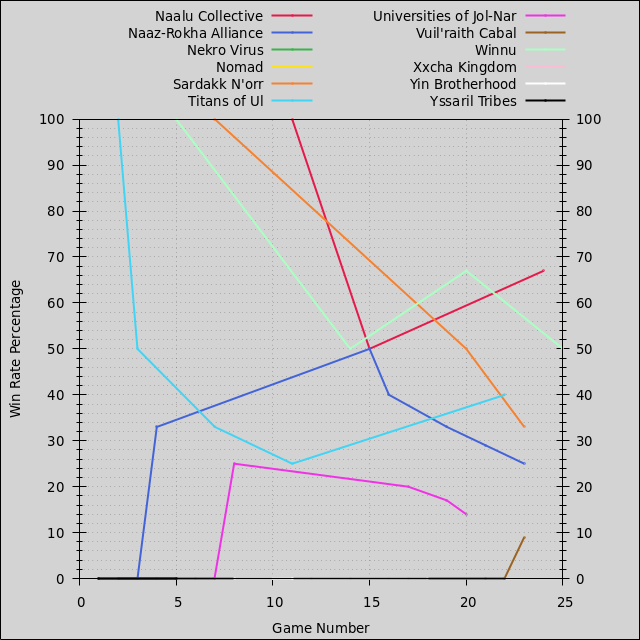
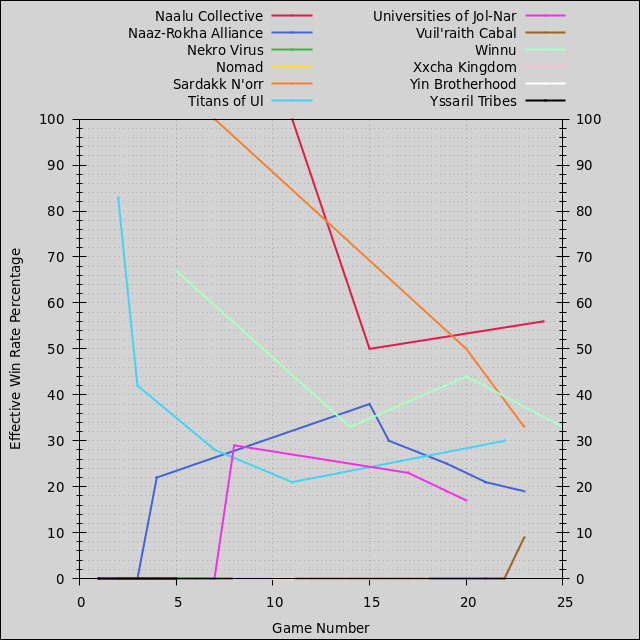
Update leaderboard.

diff --git a/leaderboard/README.md b/leaderboard/README.md
@@ -12,7 +12,7 @@
 - [Games](#games)
 - [License](#license)
 
-Last updated 2022-01-09 08:51 UTC.
+Last updated 2022-01-18 03:35 UTC.
 
 # Players
 
@@ -25,21 +25,23 @@ Last updated 2022-01-09 08:51 UTC.
 
 ## Players: Summary
 
-| **Player** | **Games** | **Current Rating** | **Avg Rating** | **Avg Points** | **1st Place** | **2nd Place** | **3rd Place** |
-| :--- | :---: | :---: | :---: | :---: | :---: | :---: | :---: |
-| PA | 16 | 1237 | 1225 | 9.25 | 56% (9) | 25% (4) | 6% (1) |
-| Rob | 5 | 1180 | 1063 | 9.20 | 40% (2) | 20% (1) | 20% (1) |
-| AlexC | 25 | 1180 | 1084 | 7.96 | 16% (4) | 36% (9) | 32% (8) |
-| AlexP | 7 | 1153 | 981 | 6.71 | 14% (1) | 14% (1) | 14% (1) |
-| Ronan | 13 | 1114 | 994 | 7.62 | 23% (3) | 8% (1) | 15% (2) |
-| Scott | 2 | 1095 | 1050 | 9.50 | 0% (0) | 100% (2) | 0% (0) |
-| Jess | 1 | 1044 | 1044 | 4.00 | 0% (0) | 0% (0) | 100% (1) |
-| Wendi | 21 | 997 | 1037 | 7.48 | 19% (4) | 14% (3) | 19% (4) |
-| Jay | 1 | 991 | 991 | 4.00 | 0% (0) | 0% (0) | 0% (0) |
-| Nick | 18 | 924 | 885 | 6.22 | 6% (1) | 17% (3) | 17% (3) |
-| Andy | 9 | 894 | 1035 | 8.11 | 11% (1) | 11% (1) | 33% (3) |
-| Rachel | 3 | 886 | 915 | 5.33 | 0% (0) | 0% (0) | 33% (1) |
-| Eftychi | 1 | 868 | 868 | 0.00 | 0% (0) | 0% (0) | 0% (0) |
+| **Player** | **Games** | **Curr. Rating** | **Avg Rating** | **Avg Pts.** | **Win Rate** | **1st Place** | **2nd Place** | **3rd Place** |
+| :--- | :---: | :---: | :---: | :---: | :---: | :---: | :---: | :---: |
+| PA | 16 | 1237 | 1225 | 9.25 | 48% | 56% (9) | 25% (4) | 6% (1) |
+| Rob | 5 | 1180 | 1063 | 9.20 | 30% | 40% (2) | 20% (1) | 20% (1) |
+| AlexC | 25 | 1180 | 1084 | 7.96 | 12% | 16% (4) | 36% (9) | 32% (8) |
+| AlexP | 7 | 1153 | 981 | 6.71 | 14% | 14% (1) | 14% (1) | 14% (1) |
+| Ronan | 13 | 1114 | 994 | 7.62 | 19% | 23% (3) | 8% (1) | 15% (2) |
+| Scott | 2 | 1095 | 1050 | 9.50 | 0% | 0% (0) | 100% (2) | 0% (0) |
+| Jess | 1 | 1044 | 1044 | 4.00 | 0% | 0% (0) | 0% (0) | 100% (1) |
+| Wendi | 21 | 997 | 1037 | 7.48 | 13% | 19% (4) | 14% (3) | 19% (4) |
+| Jay | 1 | 991 | 991 | 4.00 | 0% | 0% (0) | 0% (0) | 0% (0) |
+| Nick | 18 | 924 | 885 | 6.22 | 4% | 6% (1) | 17% (3) | 17% (3) |
+| Andy | 9 | 894 | 1035 | 8.11 | 13% | 11% (1) | 11% (1) | 33% (3) |
+| Rachel | 3 | 886 | 915 | 5.33 | 0% | 0% (0) | 0% (0) | 33% (1) |
+| Eftychi | 1 | 868 | 868 | 0.00 | 0% | 0% (0) | 0% (0) | 0% (0) |
+
+Average victory points per game are adjusted relative to 10-point games, and effective win rates are calculated relative to 6-player games.
 
 [(Back to Players)](#players)
 
@@ -53,13 +55,15 @@ Last updated 2022-01-09 08:51 UTC.
 
 ![Players Points Plot](players/points.png)
 
-Victory points are adjusted relative to a 10-point game.
+Average victory points per game are adjusted relative to 10-point games.
 
 [(Back to Players)](#players)
 
 ## Players: Win Rates
 
 ![Players Win Rates Plot](players/winrates.png)
+
+Effective win rates are calculated relative to 6-player games.
 
 [(Back to Players)](#players)
 
@@ -74,32 +78,34 @@ Victory points are adjusted relative to a 10-point game.
 
 ## Factions: Summary
 
-| **Faction** | **Games** | **Current Rating** | **Avg Rating** | **Avg Points** | **1st Place** | **2nd Place** | **3rd Place** |
-| :--- | :---: | :---: | :---: | :---: | :---: | :---: | :---: |
-| Clan of Saar | 6 | 1213 | 1174 | 9.17 | 50% (3) | 17% (1) | 33% (2) |
-| Universities of Jol-Nar | 7 | 1162 | 1027 | 7.14 | 14% (1) | 29% (2) | 14% (1) |
-| Naalu Collective | 3 | 1140 | 1108 | 9.00 | 67% (2) | 0% (0) | 0% (0) |
-| Vuil'raith Cabal | 11 | 1125 | 922 | 7.64 | 9% (1) | 27% (3) | 9% (1) |
-| Argent Flight | 10 | 1122 | 1109 | 8.30 | 40% (4) | 20% (2) | 10% (1) |
-| Titans of Ul | 5 | 1121 | 1075 | 9.20 | 40% (2) | 20% (1) | 20% (1) |
-| Winnu | 4 | 1103 | 1085 | 7.25 | 50% (2) | 0% (0) | 50% (2) |
-| Mentak Coalition | 2 | 1092 | 1033 | 8.00 | 0% (0) | 50% (1) | 50% (1) |
-| Sardakk N'orr | 3 | 1081 | 1082 | 6.00 | 33% (1) | 0% (0) | 33% (1) |
-| Ghosts of Creuss | 1 | 1071 | 1071 | 9.00 | 0% (0) | 100% (1) | 0% (0) |
-| Arborec | 3 | 1062 | 1009 | 7.67 | 0% (0) | 67% (2) | 0% (0) |
-| L1z1x Mindnet | 5 | 1043 | 1064 | 7.80 | 20% (1) | 40% (2) | 20% (1) |
-| Federation of Sol | 7 | 1035 | 1028 | 8.14 | 14% (1) | 0% (0) | 86% (6) |
-| Yssaril Tribes | 2 | 1029 | 1009 | 7.50 | 0% (0) | 50% (1) | 0% (0) |
-| Xxcha Kingdom | 3 | 1005 | 991 | 7.67 | 0% (0) | 67% (2) | 0% (0) |
-| Barony of Letnev | 5 | 953 | 967 | 7.60 | 20% (1) | 0% (0) | 20% (1) |
-| Embers of Muaat | 2 | 945 | 899 | 7.50 | 0% (0) | 0% (0) | 50% (1) |
-| Mahact Gene-Sorcerers | 5 | 933 | 958 | 6.20 | 0% (0) | 40% (2) | 20% (1) |
-| Naaz-Rokha Alliance | 8 | 932 | 1050 | 7.50 | 25% (2) | 12% (1) | 25% (2) |
-| Emirates of Hacan | 3 | 930 | 1051 | 7.33 | 33% (1) | 33% (1) | 0% (0) |
-| Yin Brotherhood | 2 | 923 | 916 | 6.00 | 0% (0) | 0% (0) | 0% (0) |
-| Empyrean | 5 | 889 | 1019 | 7.20 | 20% (1) | 0% (0) | 0% (0) |
-| Nomad | 3 | 867 | 937 | 5.67 | 0% (0) | 0% (0) | 33% (1) |
-| Nekro Virus | 4 | 796 | 846 | 6.75 | 0% (0) | 25% (1) | 0% (0) |
+| **Faction** | **Games** | **Curr. Rating** | **Avg Rating** | **Avg Pts.** | **Win Rate** | **1st Place** | **2nd Place** | **3rd Place** |
+| :--- | :---: | :---: | :---: | :---: | :---: | :---: | :---: | :---: |
+| Clan of Saar | 6 | 1213 | 1174 | 9.17 | 33% | 50% (3) | 17% (1) | 33% (2) |
+| Universities of Jol-Nar | 7 | 1162 | 1027 | 7.14 | 17% | 14% (1) | 29% (2) | 14% (1) |
+| Naalu Collective | 3 | 1140 | 1108 | 9.00 | 56% | 67% (2) | 0% (0) | 0% (0) |
+| Vuil'raith Cabal | 11 | 1125 | 922 | 7.64 | 9% | 9% (1) | 27% (3) | 9% (1) |
+| Argent Flight | 10 | 1122 | 1109 | 8.30 | 28% | 40% (4) | 20% (2) | 10% (1) |
+| Titans of Ul | 5 | 1121 | 1075 | 9.20 | 30% | 40% (2) | 20% (1) | 20% (1) |
+| Winnu | 4 | 1103 | 1085 | 7.25 | 33% | 50% (2) | 0% (0) | 50% (2) |
+| Mentak Coalition | 2 | 1092 | 1033 | 8.00 | 0% | 0% (0) | 50% (1) | 50% (1) |
+| Sardakk N'orr | 3 | 1081 | 1082 | 6.00 | 33% | 33% (1) | 0% (0) | 33% (1) |
+| Ghosts of Creuss | 1 | 1071 | 1071 | 9.00 | 0% | 0% (0) | 100% (1) | 0% (0) |
+| Arborec | 3 | 1062 | 1009 | 7.67 | 0% | 0% (0) | 67% (2) | 0% (0) |
+| L1z1x Mindnet | 5 | 1043 | 1064 | 7.80 | 20% | 20% (1) | 40% (2) | 20% (1) |
+| Federation of Sol | 7 | 1035 | 1028 | 8.14 | 7% | 14% (1) | 0% (0) | 86% (6) |
+| Yssaril Tribes | 2 | 1029 | 1009 | 7.50 | 0% | 0% (0) | 50% (1) | 0% (0) |
+| Xxcha Kingdom | 3 | 1005 | 991 | 7.67 | 0% | 0% (0) | 67% (2) | 0% (0) |
+| Barony of Letnev | 5 | 953 | 967 | 7.60 | 13% | 20% (1) | 0% (0) | 20% (1) |
+| Embers of Muaat | 2 | 945 | 899 | 7.50 | 0% | 0% (0) | 0% (0) | 50% (1) |
+| Mahact Gene-Sorcerers | 5 | 933 | 958 | 6.20 | 0% | 0% (0) | 40% (2) | 20% (1) |
+| Naaz-Rokha Alliance | 8 | 932 | 1050 | 7.50 | 19% | 25% (2) | 12% (1) | 25% (2) |
+| Emirates of Hacan | 3 | 930 | 1051 | 7.33 | 33% | 33% (1) | 33% (1) | 0% (0) |
+| Yin Brotherhood | 2 | 923 | 916 | 6.00 | 0% | 0% (0) | 0% (0) | 0% (0) |
+| Empyrean | 5 | 889 | 1019 | 7.20 | 20% | 20% (1) | 0% (0) | 0% (0) |
+| Nomad | 3 | 867 | 937 | 5.67 | 0% | 0% (0) | 0% (0) | 33% (1) |
+| Nekro Virus | 4 | 796 | 846 | 6.75 | 0% | 0% (0) | 25% (1) | 0% (0) |
+
+Average victory points per game are adjusted relative to 10-point games, and effective win rates are calculated relative to 6-player games.
 
 [(Back to Factions)](#factions)
 
@@ -117,7 +123,7 @@ Victory points are adjusted relative to a 10-point game.
 
 ![Factions Points Plot](factions/points2.png)
 
-Victory points are adjusted relative to a 10-point game.
+Average victory points per game are adjusted relative to 10-point games.
 
 [(Back to Factions)](#factions)
 
@@ -126,6 +132,8 @@ Victory points are adjusted relative to a 10-point game.
 ![Factions Win Rates Plot](factions/winrates1.png)
 
 ![Factions Win Rates Plot](factions/winrates2.png)
+
+Effective win rates are calculated relative to 6-player games.
 
 [(Back to Factions)](#factions)
 
@@ -169,7 +177,7 @@ Victory points are adjusted relative to a 10-point game.
 
 # License
 
-This leaderboard was generated by https://github.com/acodcha/ti4-echelon, which is maintained by Alexandre Coderre-Chabot (https://github.com/acodcha) and licensed under the MIT License. For more details, see the `LICENSE` file or https://mit-license.org/. This work is based on the Twilight Imperium 4th Edition board game by Fantasy Flight Games. The contents, copyrights, and trademarks of everything involving Twilight Imperium 4th Edition are exclusively held by Fantasy Flight Games; I make no claim to any of these in any way.
+This leaderboard was generated by [https://github.com/acodcha/ti4-echelon](https://github.com/acodcha/ti4-echelon), which is maintained by Alexandre Coderre-Chabot [(https://github.com/acodcha)](https://github.com/acodcha) and licensed under the MIT License. For more details, see the `LICENSE` file or [https://mit-license.org](https://mit-license.org). This work is based on the Twilight Imperium 4th Edition board game by Fantasy Flight Games. The contents, copyrights, and trademarks of everything involving Twilight Imperium 4th Edition are exclusively held by Fantasy Flight Games; I make no claim to any of these in any way.
 
 [(Back to Top)](#)
 
